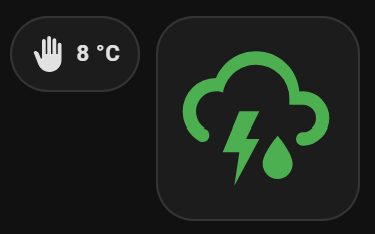
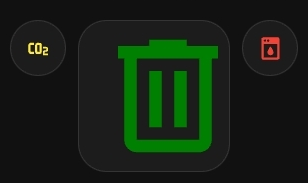
tablet condtional cards

diff --git a/homeassistant/homeassistant_dashboard_tablet_in_kiosk_mode.md b/homeassistant/homeassistant_dashboard_tablet_in_kiosk_mode.md
@@ -39,6 +39,9 @@ If you want to show only the content of a single dashboard, then you need to def
     * [Only charge when needed](#only-charge-when-needed)
   * [Create a tablet dashboard](#create-a-tablet-dashboard)
     * [What's on my dashboard](#whats-on-my-dashboard)
+      * [Basic elements](#basic-elements)
+      * [Optional elements](#optional-elements)
+        * [YAML how to make elements conditional](#yaml-how-to-make-elements-conditional)
 <!-- TOC -->
 
 ---
@@ -230,6 +233,8 @@ for copy-paste examples in these categories.
 ---
 ### What's on my dashboard
 
+#### Basic elements
+
 This screenshot is an interactive, clickable image of my dashboard.
 You can select a dashboard element and you get redirected to the card details.
 
@@ -240,6 +245,7 @@ $(function() {
     $('.maparea').maphilight();
 });
 </script>
+
 <map name="my-dashboard">
   <area
     shape="rect"
@@ -312,6 +318,121 @@ $(function() {
 <img usemap="#my-dashboard" src="images_tablet_in_kiosk_mode/ha_on_tablet_in_kiosk_mode1.png" alt="Home Assistant dashboard in kiosk mode" width="100%" class="maparea" />
 <em>Clickable dashboard: each element is linked to the corresponding code</em>
 
+#### Optional elements
+
+On my dashboard I also have elements which are by default hidden and only visible when it's relevant.
+
+Optional elements are:
+* [Bigger trash can Mushroom icon](/homeassistant/homeassistant_dashboard_card_mushroom#bigger-icon), if today is bin day
+* Rain prediction graph, only if rain is expected the upcoming hours
+* Weather alert text, only if there is an alert
+* Camera stream, only if some is detected
+
+<br>
+
+<map name="my-dashboard-conditional">
+  <area
+    shape="rect"
+    coords="40,0,200,55"
+    href="/homeassistant/homeassistant_dashboard_date_time#time-and-date"
+    alt="time" />
+  <area
+    shape="rect"
+    coords="30,50,200,90"
+    href="/homeassistant/homeassistant_dashboard_date_time#time-and-date"
+    alt="date" />
+ <area
+    shape="rect"
+    coords="35,85,85,145"
+    href="/homeassistant/homeassistant_dashboard_card_mushroom#bigger-icon"
+    alt="mushrooms" />
+<area
+    shape="rect"
+    coords="0,145,230,300"
+    href="/homeassistant/"
+    alt="rain expected" />
+<area
+    shape="rect"
+    coords="0,300,230,460"
+    href="/homeassistant/homeassistant_dashboard_latest_news#news-headline-nunl"
+    alt="news headline" />
+<!-- second column -->
+<area
+    shape="rect"
+    coords="230,5,460,115"
+    href="/homeassistant/homeassistant_dashboard_stretch_layout#flexible-horseshoe-card"
+    alt="outside temperature" />
+<area
+    shape="rect"
+    coords="230,115,460,220"
+    href="/homeassistant/homeassistant_dashboard_stretch_layout#room-temperature"
+    alt="air pressure" />
+<area
+    shape="rect"
+    coords="230,220,350,330"
+     href="/homeassistant/homeassistant_dashboard_stretch_layout#flexible-horseshoe-card"
+    alt="temp inside" />
+<area
+    shape="rect"
+    coords="350,220,460,330"
+    href="/homeassistant/homeassistant_dashboard_stretch_layout#room-temperature"
+    alt="CO2" />
+<area
+    shape="rect"
+    coords="230,330,460,410"
+    href="/homeassistant/homeassistant_dashboard_card_mushroom#welcome-text-and-weather-forecast-for-today-dutch"
+    alt="textual weather" />
+<!-- third column -->
+<area
+    shape="rect"
+    coords="460,0,700,140"
+    href="/homeassistant/homeassistant_dashboard_weather_nl#weeronline"
+    alt="weather forecast" />
+<area
+    shape="rect"
+    coords="460,140,700,310"
+    href="/homeassistant/homeassistant_dashboard_weather_nl#rain-radar-animated"
+    alt="buienradar" />
+</map>
+<img usemap="#my-dashboard-conditional" src="images_tablet_in_kiosk_mode/ha_on_tablet_optional_elements.jpg" alt="Home Assistant dashboard in kiosk mode" width="100%" class="maparea" />
+<em>Clickable dashboard: each element is linked to the corresponding code</em>
+
+##### YAML how to make elements conditional
+
+This is how you can define a conditional **Mushroom** element.
+```yaml
+{% raw %}
+# Sourcecode by vdbrink.github.io
+# Dashboard card code
+- type: custom:mushroom-chips-card
+  chips:
+    - type: conditional
+      conditions:
+        - entity: sensor.waste_tomorrow
+          state: "true"
+     chip:
+       type: template
+       entity: sensor.cyclus_gft
+       icon: mdi:trash-can-outline
+       content: ""
+{% endraw %}
+```
+
+This is how you can define a conditional **camera stream** element.
+```yaml
+{% raw %}
+# Sourcecode by vdbrink.github.io
+# Dashboard card code
+- type: conditional
+  conditions:
+      - condition: state
+        entity: input_boolean.frontdoor_detection_mode
+        state: "on"
+  card:
+    type: custom:webrtc-camera
+    url: rtsp://....
+{% endraw %}
+```
 ---
 
 See also my [other examples of dashboard elements](/homeassistant/homeassistant_dashboard_examples_overview).

diff --git a/homeassistant/homeassistant_dashboard_card_mushroom.md b/homeassistant/homeassistant_dashboard_card_mushroom.md
@@ -250,11 +250,9 @@ chips:
 
 &nbsp; Show the mushroom icon in a mush bigger size with the `card_mod` HACS integration, see <a href="https://github.com/thomasloven/lovelace-card-mod" target="_blank">https://github.com/thomasloven/lovelace-card-mod</a> for more info.
 
-<br>
 
 Install `card_mod` via this button\
 [![Open your Home Assistant instance and show the app store.](https://my.home-assistant.io/badges/hacs_repository.svg)](https://my.home-assistant.io/redirect/hacs_repository/?owner=thomasloven&repository=lovelace-card-mod&category=integration)
-
 
 ```yaml
 {% raw %}
@@ -262,28 +260,34 @@ Install `card_mod` via this button\
 # Dashboard card code
 type: custom:mushroom-chips-card
 chips:
-  - chip:
-    type: template
-    icon: mdi:weather-lightning-rainy
-    icon_color: |-
-      {% if is_state('sensor.knmi_weercode', 'Code groen') %}
-         green
-      {% elif is_state('sensor.knmi_weercode', 'Code geel') %}
-         yellow
-      {% elif is_state('sensor.knmi_weercode', 'Code rood') %}
-         red
-      {% else %}
-         1C1C1C
-      {% endif %}
-    entity: sensor.knmi_weercode
-    content: ""
-    card_mod:
-      style: |
-        ha-card {
-          --chip-icon-size: 80px;
-          width: 100px !important;
-          height: 100px !important
-        }
+    chip:
+      type: template
+      entity: sensor.cyclus_gft
+      icon: mdi:trash-can-outline
+      content: ""
+      card_mod:
+        style: |
+          ha-card {
+            --chip-icon-size: 100px;
+            width: 100px !important;
+            height: 100px !important;
+          }
+          :host {
+            --card-mod-icon-color: 
+            {% if is_state('sensor.gft_waste_pickup_countdown', 'unavailable') %}
+             #1C1C1C
+            {% elif states('sensor.gft_waste_pickup_countdown')|int == 1 %}
+             green
+            {% elif states('sensor.paper_waste_pickup_countdown')|int == 1 %}
+             blue
+            {% elif states('sensor.plastic_waste_pickup_countdown')|int == 1 %}
+             orange
+            {% elif states('sensor.rest_waste_pickup_countdown')|int == 1 %}
+             grey
+            {% else %}
+             #1C1C1C
+            {% endif %}
+          }
 {% endraw %}
 ```
 

diff --git a/_posts/2026-03-22-esphome-diy-CO2-sensor.md b/_posts/2026-03-22-esphome-diy-CO2-sensor.md
@@ -16,7 +16,7 @@ image: /esphome/images_scd40/hardware.jpg
 My favorite sensors is the Co2 sensor!
 
 When the level is too high you can feel tired, your start yawning and it can give you a headache. 
-Also your consentration drops immediately.
+Also your concentration drops immediately.
 
 With active alerts to open a window you keep healthy and fresh! 
 After I installed them in my home office and living room I'm aware of it now.